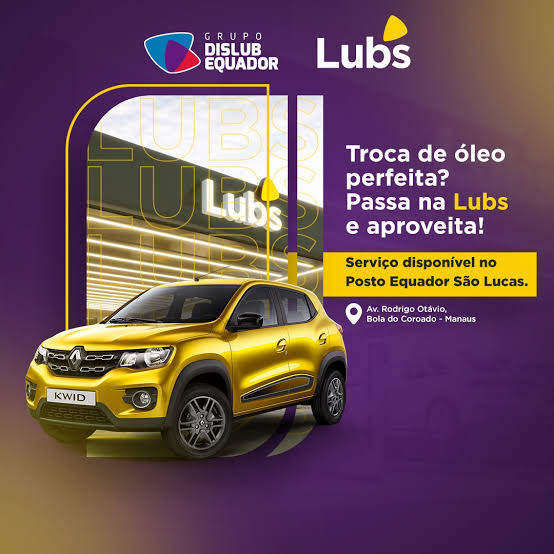
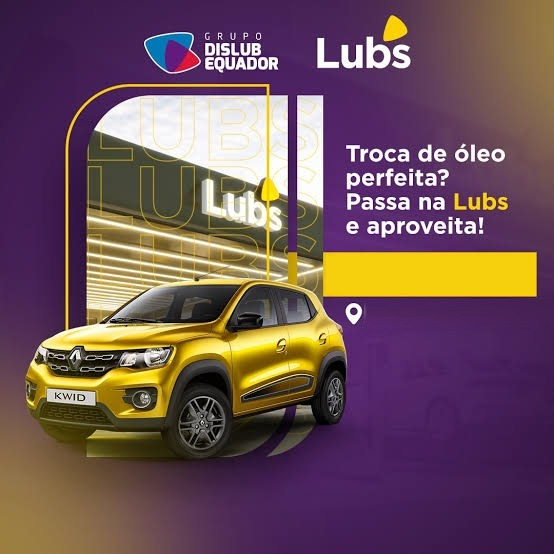
v1.4.0: posto com CNPJ/endereco, produtos da rede, tela de descanso com o posto

diff --git a/app.js b/app.js
@@ -1,9 +1,9 @@
-/* Troca de Óleo – app dos postos – v1.3.0 (14/11/2026) */
+/* Troca de Óleo – app dos postos – v1.4.0 (14/11/2026) */
 'use strict';
 
 /* ============ CONSTANTES E ESTADO ============ */
 const CFG = window.CONFIG || {};
-const VERSAO_APP = '1.3.0';
+const VERSAO_APP = '1.4.0';
 const GERAL_PADRAO = {
   MARCA_NOME: 'Postos Pichilau', MARCA_SUBTITULO: 'Troca de Óleo', COR_PRINCIPAL: '#4A1B6D', COR_DESTAQUE: '#FFC20E', COR_SECUNDARIA: '#58595B', ESTOQUE_TOLERANCIA: '0',
   DESCANSO_MINUTOS: '3', DESCANSO_IMAGENS: 'descanso.jpg', DESCANSO_TEXTO: 'Toque na tela para começar', CUPOM_ROTULO_OS: 'OS, O.S., ORDEM DE SERVICO, ORDEM'
@@ -924,11 +924,11 @@ function telaProdutos() {
   const compra = pode('ver_compra');
   V(`<div class="cab"><h1>Produtos</h1>${pode('importar') ? '<button class="btn" id="pImp">Importar</button>' : ''}</div>
     <div class="botoes" style="flex-wrap:nowrap"><input type="search" id="pq" placeholder="Código de barras, código ou nome" autocomplete="off"><button class="btn" id="pScan" aria-label="Ler código de barras pela câmera">📷</button></div>
-    <p class="suave peq">${D.produtos.length} produtos de ${esc(nomePosto())}. Preço e estoque da última importação.</p>
+    <p class="suave peq">${D.produtos.length} produtos da rede (${D.produtos.filter(p => !p.Rede).length} importados para ${esc(nomePosto())}). Preço e estoque da última importação de cada posto; produtos só da rede aparecem com estoque 0 aqui.</p>
     <div class="bloco"><ul class="lista" id="pLista"></ul></div>`);
   const mostrar = () => {
     const l = buscarProdutos($('#pq').value, 80);
-    $('#pLista').innerHTML = l.length ? l.map(p => `<li style="display:flex;justify-content:space-between;gap:.8rem;padding:.6rem .2rem"><span style="min-width:0"><b>${esc(p.Nome)}</b><br><span class="suave peq">Cód. ${esc(p.Codigo)}${p.Barras ? ' – barras ' + esc(p.Barras) : ''}${p.Grupo ? ' – ' + esc(p.Grupo) : ''}</span></span><span style="text-align:right;white-space:nowrap" class="num"><b>${brl(p.PrecoVenda)}</b>${compra && p.PrecoCompra !== undefined ? `<br><span class="suave peq">compra ${brl(p.PrecoCompra)}</span>` : ''}<br><span class="peq ${num(p.Estoque) <= 0 ? 'erro-campo' : 'suave'}">estoque ${fmtQtd(p.Estoque)} ${esc(p.Unidade || '')}</span></span></li>`).join('') : `<li class="vazio">${D.produtos.length ? 'Nada encontrado.' : 'Nenhum produto importado para este posto ainda.'}</li>`;
+    $('#pLista').innerHTML = l.length ? l.map(p => `<li style="display:flex;justify-content:space-between;gap:.8rem;padding:.6rem .2rem"><span style="min-width:0"><b>${esc(p.Nome)}</b><br><span class="suave peq">Cód. ${esc(p.Codigo)}${p.Barras ? ' – barras ' + esc(p.Barras) : ''}${p.Grupo ? ' – ' + esc(p.Grupo) : ''}${p.Rede ? ' – cadastro da rede (' + esc(nomePosto(p.PostoCadastro)) + '), sem estoque importado aqui' : ''}</span></span><span style="text-align:right;white-space:nowrap" class="num"><b>${brl(p.PrecoVenda)}</b>${compra && p.PrecoCompra !== undefined ? `<br><span class="suave peq">compra ${brl(p.PrecoCompra)}</span>` : ''}<br><span class="peq ${num(p.Estoque) <= 0 ? 'erro-campo' : 'suave'}">estoque ${fmtQtd(p.Estoque)} ${esc(p.Unidade || '')}</span></span></li>`).join('') : `<li class="vazio">${D.produtos.length ? 'Nada encontrado.' : 'Nenhum produto importado para este posto ainda.'}</li>`;
   };
   $('#pq').oninput = debounce(mostrar, 140);
   $('#pScan').onclick = async () => { const c = await escanear(); if (c) { $('#pq').value = c; mostrar(); } };
@@ -949,7 +949,7 @@ function escolherProduto({ titulo = 'Adicionar produto', permitirLivre = false }
     const inp = $('#pq2', m.el);
     inp.oninput = debounce(mostrar, 120);
     inp.onkeydown = e => { if (e.key === 'Enter') { e.preventDefault(); const ex = produtoExato(inp.value); if (ex) return fim(ex); const l = mostrar(); if (l.length === 1) fim(l[0]); } };
-    $('#pS2', m.el).onclick = async () => { const c = await escanear(); if (!c) return; const p = produtoExato(c); if (p) fim(p); else { inp.value = c; mostrar(); toast('O código ' + c + ' não está no cadastro deste posto.', 'erro'); } };
+    $('#pS2', m.el).onclick = async () => { const c = await escanear(); if (!c) return; const p = produtoExato(c); if (p) fim(p); else { inp.value = c; mostrar(); toast('O código ' + c + ' não está no cadastro da rede.', 'erro'); } };
     if (permitirLivre) $('#pL2', m.el).onclick = async () => { const n = await pedirTexto('Produto fora do cadastro', 'Nome do produto', inp.value); if (n) fim({ Codigo: '', Nome: n, PrecoVenda: 0, Estoque: 0, _livre: true }); };
     mostrar();
   });
@@ -1155,7 +1155,7 @@ function desenharOS() {
     const q = busca.value.trim();
     if (q.length < 2) { $('#osRes').innerHTML = ''; return []; }
     const l = buscarProdutos(q, 12);
-    $('#osRes').innerHTML = l.length ? `<div class="resultados">${l.map((p, i) => `<button data-i="${i}"><span><b>${esc(p.Nome)}</b><br><span class="suave peq">${esc(p.Codigo)}</span></span><span class="num" style="text-align:right">${brl(p.PrecoVenda)}<br><span class="peq ${num(p.Estoque) <= 0 ? 'erro-campo' : 'suave'}">est. ${fmtQtd(p.Estoque)}</span></span></button>`).join('')}</div>` : '<p class="suave peq">Nada encontrado neste posto.</p>';
+    $('#osRes').innerHTML = l.length ? `<div class="resultados">${l.map((p, i) => `<button data-i="${i}"><span><b>${esc(p.Nome)}</b><br><span class="suave peq">${esc(p.Codigo)}</span></span><span class="num" style="text-align:right">${brl(p.PrecoVenda)}<br><span class="peq ${num(p.Estoque) <= 0 ? 'erro-campo' : 'suave'}">est. ${fmtQtd(p.Estoque)}</span></span></button>`).join('')}</div>` : '<p class="suave peq">Nada encontrado no cadastro da rede.</p>';
     $$('#osRes [data-i]').forEach(b => { b.onclick = () => { adicionarItemOS(l[+b.dataset.i]); busca.value = ''; $('#osRes').innerHTML = ''; busca.focus(); }; });
     return l;
   };
@@ -1312,6 +1312,8 @@ function escolherCliente() {
 /* ============ IMPRESSÃO E ENVIO ============ */
 const CSS_80 = '@page{size:80mm auto;margin:0}*{box-sizing:border-box}html,body{margin:0}body{width:80mm;padding:3mm 4mm 6mm;font:12px/1.35 Arial,Helvetica,sans-serif;color:#000}h1{font-size:15px;margin:0;text-align:center}.c{text-align:center}.r{text-align:right}p{margin:2px 0}hr{border:0;border-top:1px dashed #000;margin:6px 0}table{width:100%;border-collapse:collapse}td{vertical-align:top;padding:1px 0}.g{font-size:16px;font-weight:bold}.peq{font-size:10px}';
 const CSS_A4 = '@page{size:A4;margin:14mm}*{box-sizing:border-box}body{margin:0;font:12px/1.45 Arial,Helvetica,sans-serif;color:#111}h1{font-size:20px;margin:0}h2{font-size:14px;margin:16px 0 6px;border-bottom:2px solid #FFC20E;padding-bottom:3px}table{width:100%;border-collapse:collapse}th,td{padding:5px 6px;border-bottom:1px solid #ccc;text-align:left;vertical-align:top}th{background:#f1f1ee;font-size:11px}.r{text-align:right}.sem td{border:0}.g{font-size:16px;font-weight:bold}.peq{font-size:10px;color:#555}';
+const idPosto80 = p => [p.CNPJ && dig(p.CNPJ) ? 'CNPJ ' + fmtDoc(p.CNPJ) : '', p.Endereco || ''].filter(Boolean).map(t => `<p class="c peq">${esc(t)}</p>`).join('');
+const idPostoA4 = p => [p.CNPJ && dig(p.CNPJ) ? 'CNPJ ' + fmtDoc(p.CNPJ) : '', p.Endereco || ''].filter(Boolean).map(esc).join('<br>');
 function htmlDoc(corpo, fmt, titulo) { return `<!doctype html><html lang="pt-BR"><head><meta charset="utf-8"><title>${esc(titulo)}</title><style>${fmt === '80mm' ? CSS_80 : CSS_A4}</style></head><body>${corpo}</body></html>`; }
 function docOS(o, fmt) {
   const p = { ...postoAtual(o.Posto), Nome: nomePosto(o.Posto) }, c = D.cli[o.ClienteId] || { Nome: o.ClienteNome }, v = D.vei[o.VeiculoId], m = v ? D.mod[v.ModeloId] : null;
@@ -1320,13 +1322,13 @@ function docOS(o, fmt) {
   const prox = v && v.ProximaData && o.TrocaOleo && o.Status === 'FECHADA' && v.UltimaTrocaData === o.Data ? `Próxima troca: ${dataBR(v.ProximaData)}${num(v.ProximaKm) ? ' ou ' + fmtKm(v.ProximaKm) : ''}, o que vier primeiro.` : '';
   const tit = 'O.S. nº ' + o.Numero;
   if (fmt === '80mm') {
-    return htmlDoc(`<h1>${esc(p.Nome)}</h1><p class="c">ORDEM DE SERVIÇO Nº ${esc(o.Numero)}</p><p class="c">${dataBR(o.Data)}${st ? ' – ' + st : ''}</p>${cupom ? `<p class="c">${esc(cupom)}</p>` : ''}<hr>
+    return htmlDoc(`<h1>${esc(p.Nome)}</h1>${idPosto80(p)}<p class="c">ORDEM DE SERVIÇO Nº ${esc(o.Numero)}</p><p class="c">${dataBR(o.Data)}${st ? ' – ' + st : ''}</p>${cupom ? `<p class="c">${esc(cupom)}</p>` : ''}<hr>
       <p><b>Cliente:</b> ${esc(c.Nome)}</p>${o.Placa ? `<p><b>Placa:</b> ${esc(fmtPlaca(o.Placa))}${m ? ' – ' + esc(nomeModelo(m)) : ''}</p>` : ''}${num(o.Km) ? `<p><b>KM:</b> ${fmtKm(o.Km)}</p>` : ''}<hr>
       <table>${o.Itens.map(i => `<tr><td colspan="2">${esc(i.nome)}</td></tr><tr><td class="peq">${fmtQtd(i.qtd)} x ${brl(i.preco)}</td><td class="r">${brl(num(i.qtd) * num(i.preco))}</td></tr>`).join('')}</table><hr>
       <table><tr><td>Subtotal</td><td class="r">${brl(o.Subtotal)}</td></tr>${num(o.Desconto) ? `<tr><td>Desconto</td><td class="r">-${brl(o.Desconto)}</td></tr>` : ''}<tr><td class="g">TOTAL</td><td class="r g">${brl(o.Total)}</td></tr></table>
       ${prox ? `<hr><p class="c"><b>${esc(prox)}</b></p>` : ''}${o.Obs ? `<hr><p>${esc(o.Obs)}</p>` : ''}<hr><p class="c">Obrigado pela preferência!</p><p class="c peq">Documento sem valor fiscal.</p>`, fmt, tit);
   }
-  return htmlDoc(`<table class="sem" style="border-bottom:3px solid #4A1B6D"><tr><td><h1>${esc(p.Nome)}</h1><span class="peq">Troca de óleo</span></td><td class="r"><span class="g">O.S. nº ${esc(o.Numero)}</span><br>${dataBR(o.Data)}${cupom ? '<br>' + esc(cupom) : ''}${st ? '<br><b>' + st + '</b>' : ''}</td></tr></table>
+  return htmlDoc(`<table class="sem" style="border-bottom:3px solid #4A1B6D"><tr><td><h1>${esc(p.Nome)}</h1><span class="peq">${idPostoA4(p) || 'Troca de óleo'}</span></td><td class="r"><span class="g">O.S. nº ${esc(o.Numero)}</span><br>${dataBR(o.Data)}${cupom ? '<br>' + esc(cupom) : ''}${st ? '<br><b>' + st + '</b>' : ''}</td></tr></table>
     <h2>Cliente</h2><table><tr><td><b>${esc(c.Nome)}</b>${c.Fantasia ? '<br>' + esc(c.Fantasia) : ''}</td><td>${c.Documento ? (dig(c.Documento).length === 14 ? 'CNPJ ' : 'CPF ') + esc(fmtDoc(c.Documento)) : ''}</td><td>${esc(fmtFone(c.WhatsApp || c.Fone))}${c.Email ? '<br>' + esc(c.Email) : ''}</td></tr></table>
     <h2>Veículo</h2><table><tr><td>Placa <b>${esc(fmtPlaca(o.Placa))}</b></td><td>${esc(nomeModelo(m))}${m ? ' – ' + esc(m.Tipo) : ''}</td><td>KM ${num(o.Km) ? fmtKm(o.Km) : 'não informado'}</td></tr></table>
     <h2>Itens</h2><table><tr><th>Código</th><th>Descrição</th><th class="r">Qtd</th><th class="r">Preço</th><th class="r">Total</th></tr>
@@ -1685,7 +1687,7 @@ async function telaConfig() {
   if (j.erro) throw new Error(j.erro);
   const W = { postos: j.postos.map(p => ({ ...p })), geral: { ...j.geral }, sel: (j.postos[0] || {}).Codigo, mudou: false, verChave: false };
   const SEC = {
-    dados: { t: 'Dados do posto', c: [['Nome', 'Nome do posto'], ['Ativo', 'Situação', 'sel', ['SIM', 'NAO']], ['Emails', 'E-mails do posto (separe por vírgula)'], ['EmailsGerente', 'E-mails do gerente']], copiar: ['Emails', 'EmailsGerente'] },
+    dados: { t: 'Dados do posto', c: [['Nome', 'Nome fantasia do posto'], ['CNPJ', 'CNPJ'], ['Endereco', 'Endereço (aparece na tela de descanso e nas O.S.)'], ['Ativo', 'Situação', 'sel', ['SIM', 'NAO']], ['Emails', 'E-mails do posto (separe por vírgula)'], ['EmailsGerente', 'E-mails do gerente']], copiar: ['Emails', 'EmailsGerente'] },
     avisos: { t: 'Avisos e mensagens', c: [['TeamsWebhook', 'Link do webhook do Teams (Power Automate)'], ['MsgTroca', 'Mensagem do lembrete de troca', 'area'], ['MsgAniversario', 'Mensagem de aniversário', 'area'], ['MsgPosVenda', 'Mensagem de pós-venda', 'area'], ['MsgOS', 'Mensagem da O.S. no WhatsApp', 'area']], copiar: ['TeamsWebhook', 'MsgTroca', 'MsgAniversario', 'MsgPosVenda', 'MsgOS'] },
     regras: { t: 'Regras', c: [['VenderSemEstoque', 'Vender sem estoque', 'sel', ['SIM', 'NAO']], ['ImpressoraPadrao', 'Impressora padrão do balcão', 'sel', ['80mm', 'A4']], ['AntecedenciaDias', 'Avisar a troca quantos dias antes'], ['DiasPosVenda', 'Pós-venda quantos dias depois da O.S.'], ['IntervaloKm', 'Troca padrão a cada (km)'], ['IntervaloDias', 'Troca padrão a cada (dias)']], copiar: ['VenderSemEstoque', 'ImpressoraPadrao', 'AntecedenciaDias', 'DiasPosVenda', 'IntervaloKm', 'IntervaloDias'] }
   };
@@ -1694,7 +1696,7 @@ async function telaConfig() {
     const v = p[c] ?? '';
     if (t === 'sel') return `<div class="campo"><label>${esc(r)}</label><select data-cfg="${c}">${ops.map(o => `<option value="${o}"${o === v ? ' selected' : ''}>${o === 'NAO' ? 'NÃO' : o}</option>`).join('')}</select>${c === 'VenderSemEstoque' ? '<span class="suave peq">NÃO: a O.S. não aceita produto sem saldo e não fecha. O cupom fiscal sempre é registrado, porque a venda já aconteceu no B2Click.</span>' : ''}</div>`;
     if (t === 'area') return `<div class="campo largo"><label>${esc(r)}</label><textarea data-cfg="${c}" placeholder="${esc(PAD[c] || '')}">${esc(v)}</textarea></div>`;
-    return `<div class="campo${/Webhook|Emails/.test(c) ? ' largo' : ''}"><label>${esc(r)}</label><input type="text" data-cfg="${c}" value="${esc(v)}"></div>`;
+    return `<div class="campo${/Webhook|Emails|Endereco/.test(c) ? ' largo' : ''}"><label>${esc(r)}</label><input type="text" data-cfg="${c}" value="${esc(c === 'CNPJ' ? fmtDoc(v) : v)}"${c === 'CNPJ' ? ' inputmode="numeric"' : ''}>${c === 'Endereco' && v ? `<a class="suave peq" target="_blank" rel="noopener" href="https://www.google.com/maps/search/?api=1&query=${encodeURIComponent(v)}">Ver no mapa</a>` : ''}</div>`;
   };
   const desenhar = () => {
     const p = W.postos.find(x => x.Codigo === W.sel);
@@ -1814,9 +1816,12 @@ function mostrarDescanso() {
   descansoEl.className = 'descanso';
   descansoEl.setAttribute('role', 'button');
   descansoEl.setAttribute('aria-label', 'Toque para voltar ao app');
-  descansoEl.innerHTML = `<img alt="" src="${esc(imgs[0])}"><p>${esc(S.geral.DESCANSO_TEXTO || '')}</p>`;
+  const po = postoAtual(), nomeP = nomePosto(), end = po.Endereco || '';
+  const tarja = src => /(^|\/)descanso\.jpg(\?|$)/.test(src) || (!!window.DEMO_IMAGEM && src === window.DEMO_IMAGEM);
+  const sobre = `<div class="desc-tarja"><span>Serviço disponível no ${esc(nomeP)}.</span></div>${end ? `<div class="desc-end">${esc(end)}</div>` : ''}`;
+  descansoEl.innerHTML = `<div class="desc-img"><img alt="" src="${esc(imgs[0])}">${tarja(imgs[0]) ? sobre : ''}</div><p>${esc(S.geral.DESCANSO_TEXTO || '')}</p>${!tarja(imgs[0]) && end ? `<p class="desc-rodape">${esc(nomeP)} – ${esc(end)}</p>` : ''}`;
   document.body.appendChild(descansoEl);
-  const giro = imgs.length > 1 ? setInterval(() => { i = (i + 1) % imgs.length; $('img', descansoEl).src = imgs[i]; }, 12000) : null;
+  const giro = imgs.length > 1 ? setInterval(() => { i = (i + 1) % imgs.length; $('img', descansoEl).src = imgs[i]; $$('.desc-tarja,.desc-end', descansoEl).forEach(e => { e.hidden = !tarja(imgs[i]); }); }, 12000) : null;
   descansoEl.addEventListener('click', e => { e.stopPropagation(); clearInterval(giro); descansoEl.remove(); descansoEl = null; reiniciarDescanso(); });
 }
 ['pointerdown', 'keydown', 'scroll', 'input'].forEach(ev => document.addEventListener(ev, () => { if (!descansoEl) reiniciarDescanso(); }, { passive: true, capture: true }));

diff --git a/index.html b/index.html
@@ -181,6 +181,11 @@ input:focus,select:focus,textarea:focus{border-color:var(--oleo);outline:2px sol
 .descanso img{max-width:min(92vw,92vh);max-height:78vh;border-radius:14px;box-shadow:0 10px 40px rgba(0,0,0,.45);object-fit:contain}
 .descanso p{color:#fff;font:600 1.15rem/1.2 var(--fonte);margin:0;text-align:center}
 .descanso p b{color:var(--oleo)}
+.desc-img{position:relative;container-type:inline-size;width:min(92vw,78vh);line-height:0}
+.desc-img img{width:100%;max-width:none;max-height:none}
+.desc-tarja{position:absolute;left:58.6%;top:46%;width:38.1%;height:7.3%;display:flex;align-items:center;padding:0 2.2%;box-sizing:border-box;color:#2b1240;font:800 2.35cqw/1.12 var(--fonte);letter-spacing:-.01em;line-height:1.12}
+.desc-end{position:absolute;left:65.6%;top:54.4%;width:33%;color:#fff;font:600 1.6cqw/1.25 var(--fonte);line-height:1.25}
+.desc-rodape{font-size:.9rem!important;opacity:.85}
 @media (prefers-reduced-motion:no-preference){.descanso img{animation:surge .6s ease-out}@keyframes surge{from{opacity:0;transform:scale(.97)}to{opacity:1;transform:none}}}
 
 /* login */

diff --git a/sw.js b/sw.js
@@ -1,5 +1,5 @@
 /* Troca de Óleo – service worker. Ao publicar versão nova do app, troque o nome do cache. */
-const CACHE = 'troca-oleo-v4';
+const CACHE = 'troca-oleo-v5';
 const ARQUIVOS = ['./', 'index.html', 'app.js', 'config.js', 'manifest.json', 'icone.svg', 'descanso.jpg'];
 self.addEventListener('install', e => { e.waitUntil(caches.open(CACHE).then(c => c.addAll(ARQUIVOS)).then(() => self.skipWaiting())); });
 self.addEventListener('activate', e => { e.waitUntil(caches.keys().then(ks => Promise.all(ks.filter(k => k !== CACHE).map(k => caches.delete(k)))).then(() => self.clients.claim())); });
